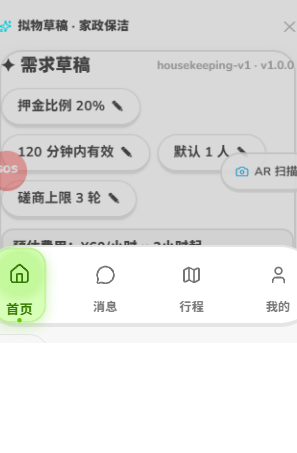
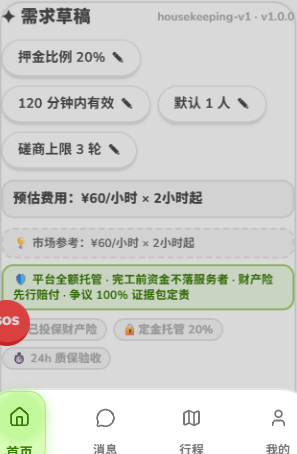
feat(ui):Batch③-1首页减法，ticker砍+4门折叠+AR降级+SOS裁决C（宪法收敛：条文 #1）

diff --git a/src/app/(oto)/_components/HomePage.tsx b/src/app/(oto)/_components/HomePage.tsx
@@ -1,7 +1,5 @@
 "use client";
 import { memo, useCallback, useEffect, useMemo, useState } from "react";
-import { motion } from "framer-motion";
-import { Camera } from "lucide-react";
 import { lockEdgeGesture } from "@/components/oto-ui/edgeGestureLock";
 import { toAtomicFiveState } from "@/base/ammo/runner";
 import { listAmmoPillDescriptors } from "@/ammo/registry";
@@ -19,8 +17,51 @@ import TalkPublishSheet from "@/components/waves/TalkPublishSheet";
 import WaveFeed from "@/components/waves/WaveFeed";
 import ChatPage from "@/components/oto-ui/chat/ChatPage";
 
-/** AI 撮合对话卡（memo 抽取：广播同步时 chatOpen 未变即跳过整卡重渲染）。
- *  折叠线案（F2）：未展开态压成单行胶囊（锚点 testid + aria-label 保真，e2e-match 零触碰）。 */
+/** 更多发单方式折叠（Batch③-1：4 门→1+折叠；hero 输入框为主门，
+ *  说句话/ AI 撮合收拢至此；内部门 testid/aria 原样保留，e2e 零漂移）。 */
+const MorePublishWays = memo(function MorePublishWays({
+  onTalk,
+  chatOpen,
+  onOpenChat,
+  onCloseChat,
+  onDraft,
+}: {
+  onTalk: () => void;
+  chatOpen: boolean;
+  onOpenChat: () => void;
+  onCloseChat: () => void;
+  onDraft: (draft: { key: string; label: string }) => void;
+}) {
+  const [open, setOpen] = useState(false);
+  return (
+    <div className="mt-2">
+      <button
+        type="button"
+        onClick={() => setOpen((v) => !v)}
+        aria-expanded={open}
+        aria-label={open ? "收起更多发单方式" : "展开更多发单方式：说句话发单、AI 撮合对话"}
+        data-testid="more-publish-toggle"
+        className="w-full flex items-center gap-2 min-h-10 px-3 rounded-full bg-white border-2 border-[var(--color-duo-swan)] border-b-4 text-left active:translate-y-px active:border-b-2 transition-[transform]"
+      >
+        <span className="text-xs font-extrabold text-[var(--color-duo-eel)] flex-1 truncate">✨ 更多发单方式</span>
+        <span className="text-xs font-bold text-[var(--color-duo-wolf)] shrink-0">{open ? "收起 ↑" : "语音/照片/多轮追问 ↓"}</span>
+      </button>
+      {open && (
+        <>
+          <button
+            onClick={onTalk}
+            aria-label="说句话发单"
+            data-testid="talk-publish-entry"
+            className="mt-2 w-full flex items-center justify-center gap-1.5 px-3.5 py-2.5 rounded-2xl bg-[var(--color-duo-blue)]/[.06] border-2 border-[var(--color-duo-blue)]/40 text-xs font-bold text-[var(--color-duo-blue-ink)]"
+          >
+            🎙 说句话发单（语音/照片也行）
+          </button>
+          <AiChatCard open={chatOpen} onOpen={onOpenChat} onClose={onCloseChat} onDraft={onDraft} />
+        </>
+      )}
+    </div>
+  );
+});
 const AiChatCard = memo(function AiChatCard({
   open,
   onOpen,
@@ -159,18 +200,27 @@ export default function HomePage() {
                 onMic={handleMic}
               />
               <AmmoPillBar pills={ammoPills} onSelectDraft={setDraft} variant="compact" hasLiveWaves={hasLiveWaves} />
-              <AiChatCard open={chatOpen} onOpen={handleOpenChat} onClose={handleCloseChat} onDraft={setDraft} />
-              <button
-                onClick={() => setTalkOpen(true)}
-                aria-label="说句话发单"
-                data-testid="talk-publish-entry"
-                className="mt-2 w-full flex items-center justify-center gap-1.5 px-3.5 py-2.5 rounded-2xl bg-[var(--color-duo-blue)]/[.06] border-2 border-[var(--color-duo-blue)]/40 text-xs font-bold text-[var(--color-duo-blue-ink)]"
-              >
-                🎙 说句话发单（语音/照片也行）
-              </button>
+              <MorePublishWays
+                onTalk={() => setTalkOpen(true)}
+                chatOpen={chatOpen}
+                onOpenChat={handleOpenChat}
+                onCloseChat={handleCloseChat}
+                onDraft={setDraft}
+              />
             </>
           ) : (
             <div className="mt-1" id="wave-feed" data-layer="wave-feed">
+              {/* Batch③-1 AR 降级：悬浮 pill 撤除，入口收拢至雷达段内联行（aria 口径保留，e2e-app/offline 仅增一切段动作）。 */}
+              <button
+                type="button"
+                onClick={() => setScreen("ar")}
+                aria-label="AR 扫描"
+                data-testid="radar-ar-entry"
+                className="mb-2 w-full flex items-center gap-2 min-h-10 px-3 rounded-2xl bg-white border-2 border-[var(--color-duo-swan)] text-left active:brightness-[0.97] transition-[filter]"
+              >
+                <span className="text-xs font-extrabold text-[var(--color-duo-eel)] flex-1 truncate">📷 AR 场景探索</span>
+                <span className="text-xs font-bold text-[var(--color-duo-wolf)] shrink-0">对准真实场景找服务 →</span>
+              </button>
               <WaveFeed />
             </div>
           )}
@@ -188,10 +238,8 @@ export default function HomePage() {
           setPublishOpen(true);
         }}
       />
-      <motion.button initial={{ opacity: 0, y: 12 }} animate={{ opacity: 1, y: 0 }} transition={{ delay: 0.4 }} onClick={() => setScreen("ar")} aria-label="AR 扫描" className="oto-ar-safe fixed right-4 bottom-28 z-40 flex items-center gap-1.5 px-3.5 py-2.5 rounded-full bg-white border-2 border-[var(--color-duo-swan)] border-b-4 text-xs font-bold text-[var(--color-duo-eel)] active:translate-y-1 active:border-b-2 transition-[transform] hover:border-[var(--color-duo-blue)]/30">
-        <Camera size={14} className="text-[var(--color-duo-blue)]" /> AR 扫描
-      </motion.button>
-      <FloatingSosButton waveId={activeWave?.id} />
+      {/* Batch③-1：AR 悬浮 pill 撤除（入口见雷达段 radar-ar-entry）；SOS 按 §3 裁决 C：有在途单隐藏（胶囊 SOS 在位），无单保留兜底。 */}
+      <FloatingSosButton waveId={activeWave?.id} hidden={activeWave !== null} />
     </div>
   );
 }

diff --git a/src/app/(oto)/_components/AmmoPillBar.tsx b/src/app/(oto)/_components/AmmoPillBar.tsx
@@ -1,7 +1,6 @@
 "use client";
 import { memo } from "react";
 import type { ScenarioTheme } from "@/types/ui-viewport";
-import { inspirationSetFor } from "./InspirationChips";
 import { SleepyBeast } from "@/components/oto-ui/MascotStates";
 
 /** 弹药胶囊描述符（注册表 listAmmoPillDescriptors 单行结构，类型同源零漂移）。 */
@@ -100,16 +99,11 @@ function AmmoPillBar({ pills, onSelectDraft, variant = "tiles", hasLiveWaves = f
     const featured = FEATURED_PILL_AMMO_IDS.map((id) => pills.find((p) => p.ammoId === id)).filter(
       (p): p is AmmoPillDescriptor => !!p,
     );
-    // 精简案：灵感 chips 整块并入，时段商业信息收拢至副标题一行
-    const insp = inspirationSetFor(new Date().getHours());
+    // 精简案：灵感 chips 整块并入；时段 caption 按 Batch③-1 用户裁决（ticker 砍）移除。
     return (
       <div className="mt-4" data-layer="ammo-library" data-testid="ammo-pill-bar" data-variant="featured">
         <div className="flex items-center gap-2">
           <div className="flex-1 min-w-0">
-            {/* 整点地雷排爆（2026-09-07 实证）：时段 caption 系服务端按构建小时渲染的静态文本，
-                跨整点水合即 React #418；suppressHydrationWarning 让客户端小时为准静默对齐，
-                跨整点不断开 e2e-acceptance。 */}
-            <p suppressHydrationWarning className="text-xs font-bold text-[var(--color-duo-wolf)] truncate">弹药库预览 · {insp.emoji}{insp.period}｜{insp.caption}</p>
             {/* 平头哥说的话：右尾气泡指向熟睡的它 */}
             <p className="bubble-pop bubble-pop-right relative mt-1 mr-1 rounded-2xl bg-white border-2 border-[var(--color-duo-swan)] px-3 py-1.5 text-sm font-black text-slate-700 w-fit max-w-full">
               <span aria-hidden="true" className="absolute -right-[8px] top-1/2 -translate-y-1/2 h-3 w-3 rotate-45 bg-white border-r-2 border-t-2 border-[var(--color-duo-swan)]" />
@@ -147,14 +141,9 @@ function AmmoPillBar({ pills, onSelectDraft, variant = "tiles", hasLiveWaves = f
     );
   }
   if (variant === "compact") {
-    // 折叠线案（F1）：时段副标题从 featured 搬入（灵感 chips 合并资产不回退）；
-    // 展位切 4 与图纸四展位对齐；平头哥接 hasLiveWaves 同源信号
-    //（宪法收敛：条文 #1，compact 分支此前漏接 awake 永酣睡）。
-    const insp = inspirationSetFor(new Date().getHours());
+    // 折叠线案（F1）出清时段副标题（Batch③-1 ticker 砍）；展位切 4 与图纸四展位对齐；
     return (
       <div className="mt-4" data-layer="ammo-library" data-testid="ammo-pill-bar" data-variant="compact">
-        {/* 整点地雷排爆：同上，客户端小时为准（见 featured 分支注释）。 */}
-        <p suppressHydrationWarning className="text-xs font-bold text-[var(--color-duo-wolf)] truncate">弹药库预览 · {insp.emoji}{insp.period}｜{insp.caption}</p>
         <div
           className="mt-2 flex items-center gap-2 overflow-hidden"
           data-layer="ammo-pills"

diff --git a/src/app/(oto)/_components/FloatingSosButton.tsx b/src/app/(oto)/_components/FloatingSosButton.tsx
@@ -7,8 +7,12 @@ import { useWaveStore } from "@/store/useWaveStore";
  * 首页悬浮 SOS 安全触点（1:1 图纸收官裁决：顶栏视觉零多余按钮，
  * SOS 逻辑收拢至铃铛抽屉 + 本全局悬浮触点双保险，必选兜底）。
  * 与 StatusCapsule 内 SOS 同源（raiseCrisis level 3 + EPA 三通道 toast）。
+ *
+ * Batch③-1 §3 裁决 C（用户 2026-09-12）：有在途单时隐藏本触点
+ * （此时 StatusCapsule SOS 已在位，三 SOS 并存→两处）；无单时保留，
+ * 访客态双保险不断。hidden 由 HomePage 经 activeWave 传入。
  */
-export default function FloatingSosButton({ waveId }: { waveId?: string }) {
+export default function FloatingSosButton({ waveId, hidden }: { waveId?: string; hidden?: boolean }) {
   const handleSos = () => {
     useWaveStore
       .getState()
@@ -20,6 +24,7 @@ export default function FloatingSosButton({ waveId }: { waveId?: string }) {
       });
     toast("🚨 SOS 已上报 · 已通知紧急联系人/平台值班/警方通道", "success");
   };
+  if (hidden) return null;
   return (
     <motion.button
       initial={{ opacity: 0, scale: 0.8 }}

diff --git a/docs/UI-UX-BACKLOG.md b/docs/UI-UX-BACKLOG.md
@@ -134,7 +134,13 @@
 ## Batch③-0：立规矩（2026-09-12，用户三拍板：SOS降级认/ticker砍/主循环认）
 - 主循环一句话：说句话→有人接→履约到底。配角（AR/SOS/ticker/吉祥物）视觉权重不得与主循环平权。
 - Motion token：src/lib/duo-motion.ts（press 180ms / settle 320ms / back-out[0.34,1.56,0.64,1]，theater 900ms 须单处注释理由）。新动效一律吃 token，手写 duration 即债。
-- 屏幕预算：单视口可见行动 ≤10，有滚动则首屏主行动唯一；超限必须滚屏或折叠，禁止硬塞（home/trip/profile 三屏 932 零滚动即本案）。
+- 屏幕预算：单视口主行动组 ≤5（组内副按钮必须同 job，如 hero 输入/麦/出发=同一复合 CTA）；超限必须滚屏或折叠，禁止硬塞（home/trip/profile 三屏 932 零滚动即本案）。hero 麦保留：复合主行动内件，Duo 同款 pattern，砍它为凑数而非治本。
 - Mutation 范式：用户高频写操作（发布/接单/评价/仲裁确认）一律 useOptimistic + 失败 rollback + toast；spinner 只允许阻塞式系统等待（登录/支付），业务等待一律骨架（须与内容 1:1 映射）。
 - 入口 in/out 对：新增入口必须在 BACKLOG 指名替换掉的旧入口；空态统一走 DuoEmpty（零引用即债，行程三卡是本案）。
 - e2e 门禁（③-5 落）：首屏 button 普查上限 + 单主行动断言 + DuoEmpty 覆盖率。
+
+## Batch③-1：首页减法（2026-09-12）
+- ticker 砍：AmmoPillBar 两处时段 caption 删除 + 死文件出清（HomeTickerMarquee 空壳/InspirationChips 数据孤岛，零引用实证）。
+- 4 门→1+折叠：hero 输入+出发为主门；说句话发单/AI 撮合收拢至 more-publish-toggle（内部门 testid/aria 原样，零漂移）。
+- AR 降级：悬浮 pill 撤除 → 雷达段内联 radar-ar-entry（aria-label=AR 扫描保留）；e2e-app 2 处 + e2e-offline 1 处各增一切段动作。
+- ⚠ §3 裁决 C（用户 2026-09-12）：悬浮 SOS 有在途单隐藏（胶囊 SOS 在位）、无单保留。铃铛行/胶囊/座舱 SOS 不动；sos-hardware 考卷在行程屏（座舱 SOS）不受影响。
